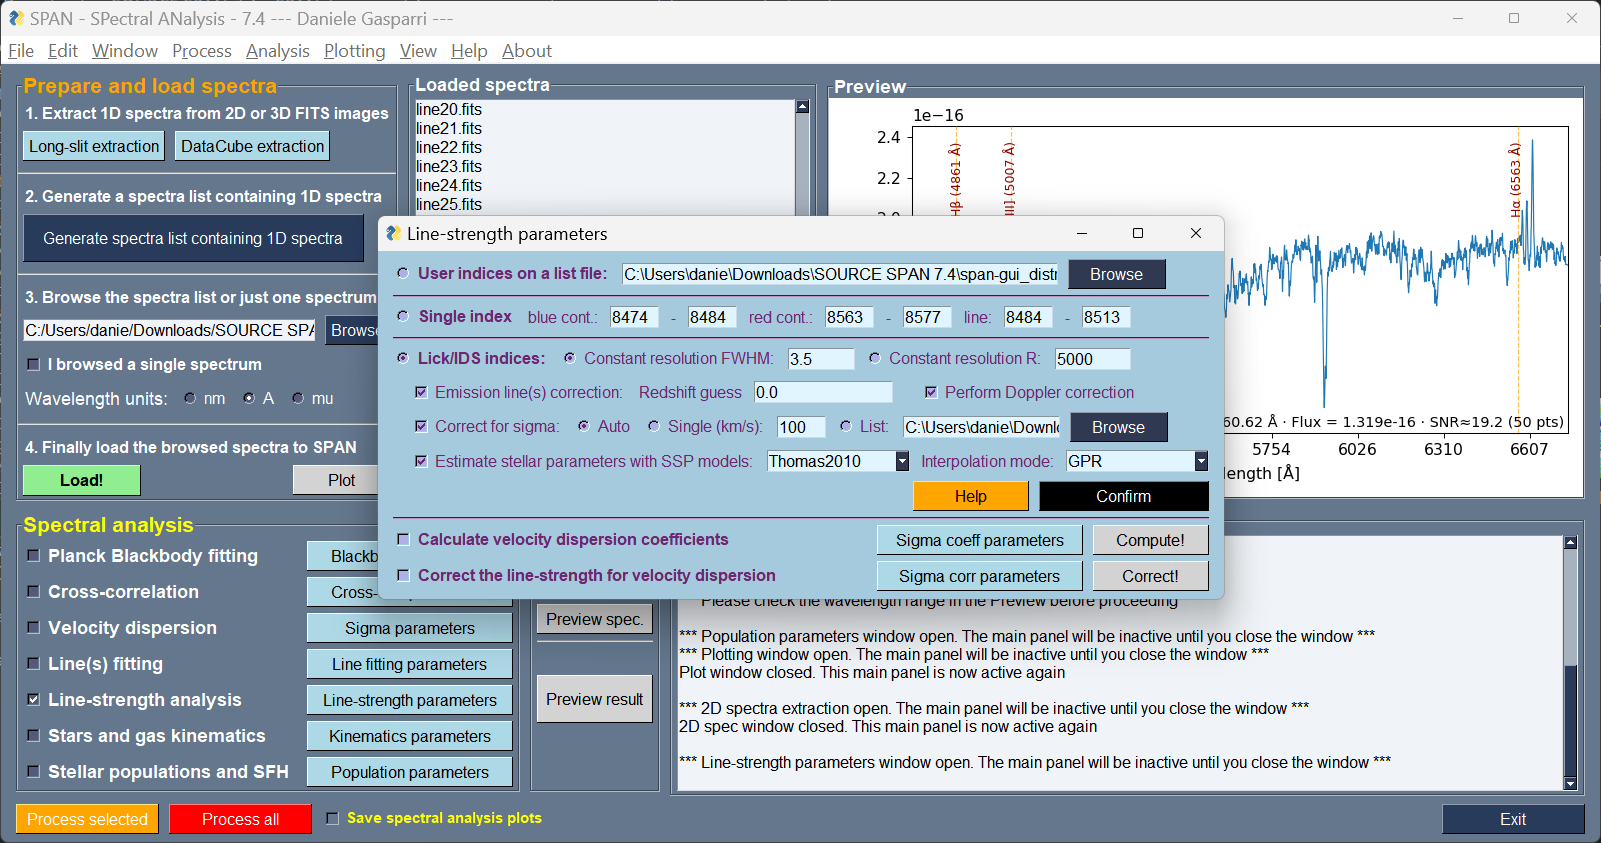
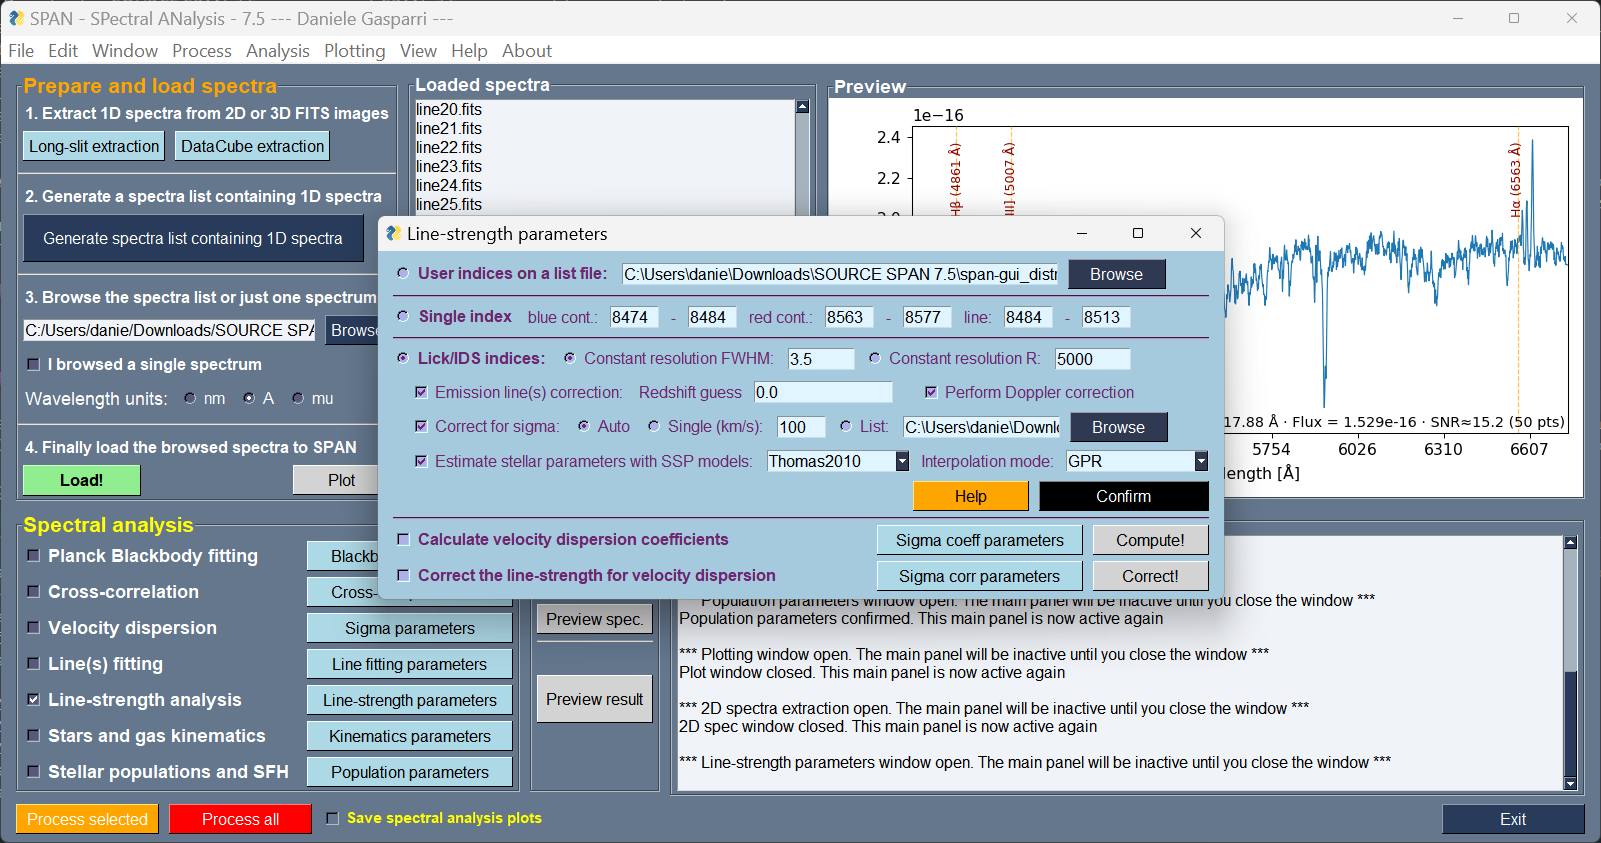
Add files via upload

diff --git a/docs/stars_and_gas_kinematics.md b/docs/stars_and_gas_kinematics.md
@@ -1,5 +1,5 @@
-SPAN: SPectral ANalysis software V7.4
-Daniele Gasparri, January 2026
+SPAN: SPectral ANalysis software V7.5
+Daniele Gasparri, May 2026
 
 # Stars and gas kinematics
 
@@ -14,6 +14,7 @@ This interface does not display all the parameters and operations available in p
 The default parameters in this window offer a solid starting point for typical galaxy spectra. To perform an initial fit, simply enter the redshift of the spectrum and ensure that the spectral range falls within the selected wavelength range.
 Fine-tuning the fit requires adjusting specific parameters. 
 
+**IMPORTANT:** It is very important that the wavelength frame you are using both for your spectra and templates is the same. You must use air wavelength templates with air wavelength spectra and vacuum wavelength templates with vacuum wavelength spectra. You can convert your spectra to air or vacuum to match the wavelength reference used by the templates by activating the relative tasks in the "Spectra manipulation" panel. A mismatch between the wavelength frames used can lead to biased kinematics values on the order of > 50 km/s.
 
 ## Parameter Overview
 The parameters are grouped into seven sections, separated by horizontal dividers. Below is a brief description of each:
@@ -47,7 +48,7 @@ You can use any kind of EMILES templates or generic ones. The generic templates 
 ### Fourth Section: Which component to fit
 
 1. "Fitting only stellar kinematics": Considering only the stellar component. To prevent gas emission lines in the optical, the option "Mask emission lines" is activated by default. If you are fitting the optical window and are absolutely sure to not have emission (usually in HBeta and HAlpha) you can disable this option. 
-2. "Gas and Stars Kinematics": Considers both stellar and gaseous emission lines. The gas components are divided into three families: Balmer lines, forbidden lines, other lines. SPAN will automatically fit all the components found in the spectral range given, using a modified version of the line emission template provided by pPXF and embedded in the "emission_lines.py" module in the "span_functions" folder. By default, stars and gas kinematics are calculated together with one fit. However, often is necessary to fix the stellar kinematics to perform a more accurate gas fit. The option "Fixing stellar kinematics first" will perform a first fit only for the stellar components and will use the kinematics moments derived to fix them in the subsequent fit for the gas component.
+2. "Gas and Stars Kinematics": Considers both stellar and gaseous emission lines. The gas components are divided into three families: Balmer lines, forbidden lines, other lines. SPAN will automatically fit all the components found in the spectral range given, using a modified version of the line emission template provided by pPXF and embedded in the "emission_lines.py" module in the "span_functions" folder. By default, stars and gas kinematics are calculated together with one fit. However, often is necessary to fix the stellar kinematics to perform a more accurate gas fit. The option "Fixing stellar kinematics first" will perform a first fit only for the stellar components and will use the kinematics moments derived to fix them in the subsequent fit for the gas component. If you are using vacuum wavelength templates and vacuum wavelength spectra, you should activate the option "Vacuum emission lines" since the "emission_lines.py" module is set to air wavelength by default. 
 3. Two stellar component fit option: Here you can also decide to fit two stellar components by activating the "Fit two stellar components with:" checkbox. This option is important only when you have kinematic decoupled stellar components (e.g. counter-rotating discs) with high S/N (> 50). It can be activated both with stellar and gas fit option, but gas will always be fitted with one kinematic component. Dust correction is not available (both for star and gas) in this mode. You need to insert an accurate velocity and velocity dispersion guess for both the stellar components. Beside this, you can select the templates to assign to each component, based on three options: 1) Old (> 5 Gyr) and young (< 5 Gyr) components, 2) Metal rich ([M/H] > 0 ) and metal poor ([M/H] < 0) components, 3) pick two templates with fixed age and metallicity. This option has been used in some works with counter-rotating discs as such Rubino et al., 2021.
 **WARNING:** Two component fit is available only by using the pre-set template set of SPAN and with any (E)MILES template. Not available for fully custom templates, since it needs to read the information about age and metallicity of the SSPs.
 **IMPORTANT1:** For the two component fit you must always insert a GOOD guess of the velocity and velocity dispersion of the two components you think to see in your spectrum. I stress out that a good guess is necessary (according to Cappellari et al., 2023 and the pPXF documentation), so first take an accurate look at your spectrum. Some tries may be necessary to find the correct parameters and it is better to perform these tests on spectral regions not affected by gas (e.g. the CaT lines) with the option "Fit only stellar kinematics".

diff --git a/docs/stellar_populations_and_SFH.md b/docs/stellar_populations_and_SFH.md
@@ -1,5 +1,5 @@
-SPAN: SPectral ANalysis software V7.4
-Daniele Gasparri, January 2026
+SPAN: SPectral ANalysis software V7.5
+Daniele Gasparri, May 2026
 
 # Stellar populations and SFH
 
@@ -17,8 +17,9 @@ The full spectral fitting method requires spectra with an acceptable Signal-to-N
 - S/N > 15 for basic results.
 - S/N > 50 for high-accuracy results.
 
-
 The default settings offer a good starting point for most local galaxy spectra and common spectrographs. To perform an initial fit, simply enter the redshift of the spectrum. For fine-tuning, adjust the parameters based on your specific dataset.
+
+**IMPORTANT:** It is recommended (but not as important as the kinematics) that the wavelength frame you are using both for your spectra and templates is the same. You must use air wavelength templates with air wavelength spectra and vacuum wavelength templates with vacuum wavelength spectra. You can convert your spectra to air or vacuum to match the wavelength reference used by the templates by activating the relative tasks in the "Spectra manipulation" panel. A mismatch between the wavelength frames used can lead to slightly biased values in the stellar population parameters.
 
 
 ## Parameter Overview
@@ -34,6 +35,7 @@ The parameters are grouped into six sections, separated by horizontal dividers. 
 
 ### Second Section: Gas Emission Lines and Dust Attenuation
 - If the spectrum contains emission lines, you should select "Fitting with gas" for more accurate results. Alternatively, you can mask out the emission lines with the "Mask emission lines" option and perform a fit without considering the gas ("Fitting only stars")
+- If fitting stars and gas with templates and spectra in vacuum wavelengths, you should activate the "Vacuum emission" option to generate gas templates using vacuum wavelengths.
 - If the spectrum includes multiple Balmer emission lines, you may enable "Tie Balmer" to constrain their ratios. This automatically applies the Calzetti et al. (2000) dust attenuation curve.
 Two additional options allow for dust correction. They should be used only for spectra with very good flux calibration:
 - "Correct for dust the stars": Uses the Cappellari (2023) 2-parameter attenuation model.

diff --git a/README.md b/README.md
@@ -1,7 +1,7 @@
 # SPAN: Spectral Analysis Software
 
 📖 **Author:** Daniele Gasparri  
-📅 **Latest Release:** January 2026  
+📅 **Latest Release:** May 2026  
 
 ![PyPI Version](https://img.shields.io/pypi/v/span-gui)
 ![Python Version](https://img.shields.io/badge/python-3.10%2B-blue)
@@ -15,13 +15,12 @@
 **SPAN is a cross-platform Python GUI software for the extraction, manipulation, and advanced analysis of 1D astronomical spectra in the optical and near-infrared (NIR) ranges, optimized for galaxy studies.**
 
 
-## What’s New in SPAN 7.4
+## What’s New in SPAN 7.5
 
-- Replaced the XSL SSP models with those embedded with the pPXF distribution in .npz format. These templates are automatically downloaded by SPAN the first time they are called in the "Stars and gas kinematics" or "Stellar populations and SFH" tasks.
-- For the "Stellar populations and SFH" task, now the M/L estimation is available for any (E)MILES custom and XSL SSP templates.
-- Reduced the size of the SPAN app installer for Windows systems by a factor of two.
-- Code refactoring to ensure better readability and performances
-- Minor bug correction and improvement of the help files within SPAN.
+- SPAN now handles air and vacuum wavelength more easily. Two new functions in the Spectra manipulation panel allow to convert the wavelengths from air to vacuum and vice versa.
+- The wrappers to pPXF can now generate and handle emission templates both in vacuum and air wavelength reference
+- New datacube extraction routine for the MEGARA instrument has been implemented, but with no variance handling
+- Some bug fixes and code refactoring to ensure more robustness 
 
 
 More from the version 7.X:

diff --git a/docs/index.md b/docs/index.md
@@ -1,7 +1,7 @@
 # SPAN: Spectral Analysis Software
 
 📖 **Author:** Daniele Gasparri  
-📅 **Latest Release:** January 2026  
+📅 **Latest Release:** May 2026  
 
 ![PyPI Version](https://img.shields.io/pypi/v/span-gui)
 ![Python Version](https://img.shields.io/badge/python-3.10%2B-blue)
@@ -11,13 +11,12 @@
 **SPAN is a cross-platform Python GUI software for the extraction, manipulation, and advanced analysis of 1D astronomical spectra in the optical and near-infrared (NIR) ranges, optimized for galaxy studies.**
 
 
-## What’s New in SPAN 7.4
+## What’s New in SPAN 7.5
 
-- Replaced the XSL SSP models with those embedded with the pPXF distribution in .npz format. These templates are automatically downloaded by SPAN the first time they are called in the "Stars and gas kinematics" or "Stellar populations and SFH" tasks.
-- For the "Stellar populations and SFH" task, now the M/L estimation is available for any (E)MILES custom and XSL SSP templates.
-- Reduced the size of the SPAN app installer for Windows systems by a factor of two.
-- Code refactoring to ensure better readability and performances
-- Minor bug correction and improvement of the help files within SPAN.
+- SPAN now handles air and vacuum wavelength more easily. Two new functions in the Spectra manipulation panel allow to convert the wavelengths from air to vacuum and vice versa.
+- The wrappers to pPXF can now generate and handle emission templates both in vacuum and air wavelength reference
+- New datacube extraction routine for the MEGARA instrument has been implemented, but with no variance handling
+- Some bug fixes and code refactoring to ensure more robustness 
 
 
 More from the version 7.X:

diff --git a/docs/changelog.md b/docs/changelog.md
@@ -1,8 +1,17 @@
-SPAN: SPectral ANalysis software V7.4
-Daniele Gasparri, January 2026
+SPAN: SPectral ANalysis software V7.5
+Daniele Gasparri, May 2026
 
 
 ## Changelog
+
+**Version 7.5 (20260501):**  
+- Fixed the equations in the convert_flux functionin utilities.py module which were wrong
+- Improved and refactored the read_datacube function in system_span.py to better read datacubes from different instruments
+- Fixed a small visualization bug of the datacube_extraction function in the sub_programs.py module that did not display properly some datacubes when the initial wavelength slices are empty
+- Included the MEGARA.py routine for reading and extracting MEGARA datacubes
+- Added two new tasks in the 'Spectra manipulation' panel: 'Air to vacuum' and 'Vacuum to air' that convert the wavelength scale from air to vacuum and vice versa, using the approximate equation of Morton (1991). Good from the UV to the near IR.
+- Added the option 'Vacuum emission' in the 'Stars and gas kinematics' and 'Stellar populations and SFH' tasks in order to generate gas templates also in vacuum wavelengths. 
+
 
 **Version 7.4 (20260102):**  
 

diff --git a/docs/spectra_manipulation.md b/docs/spectra_manipulation.md
@@ -1,5 +1,5 @@
-SPAN: SPectral ANalysis software V7.4
-Daniele Gasparri, January 2026
+SPAN: SPectral ANalysis software V7.5
+Daniele Gasparri, May 2026
 
 # Spectra manipulation panel #
 

diff --git a/docs/linestrength.md b/docs/linestrength.md
@@ -1,5 +1,5 @@
-SPAN: SPectral ANalysis software V7.4
-Daniele Gasparri, January 2026
+SPAN: SPectral ANalysis software V7.5
+Daniele Gasparri, May 2026
 
 # Line-strength analysis #
 

diff --git a/docs/long-slit_extraction.md b/docs/long-slit_extraction.md
@@ -1,5 +1,5 @@
-SPAN: SPectral ANalysis Software V7.4
-Daniele Gasparri, January 2026
+SPAN: SPectral ANalysis Software V7.5
+Daniele Gasparri, May 2026
 
 # Long-slit extraction #
 

diff --git a/docs/datacube_extraction.md b/docs/datacube_extraction.md
@@ -1,5 +1,5 @@
-SPAN: SPectral ANalysis software V7.4
-Daniele Gasparri, January 2026
+SPAN: SPectral ANalysis software V7.5
+Daniele Gasparri, May 2026
 
 # DataCube extraction #
 

diff --git a/docs/plot_data.md b/docs/plot_data.md
@@ -1,5 +1,5 @@
-SPAN: SPectral ANalysis software V7.4
-Daniele Gasparri, January 2026
+SPAN: SPectral ANalysis software V7.5
+Daniele Gasparri, May 2026
 
 # Plot data window #
 

diff --git a/docs/plot_maps.md b/docs/plot_maps.md
@@ -1,5 +1,5 @@
-SPAN: SPectral ANalysis software V7.4
-Daniele Gasparri, January 2026
+SPAN: SPectral ANalysis software V7.5
+Daniele Gasparri, May 2026
 
 
 # Plot maps window #

diff --git a/docs/tips_and_tricks.md b/docs/tips_and_tricks.md
@@ -1,5 +1,5 @@
-SPAN: SPectral ANalysis software V7.4
-Daniele Gasparri, January 2026
+SPAN: SPectral ANalysis software V7.5
+Daniele Gasparri, May 2026
 
 # Tips and Tricks #
 
